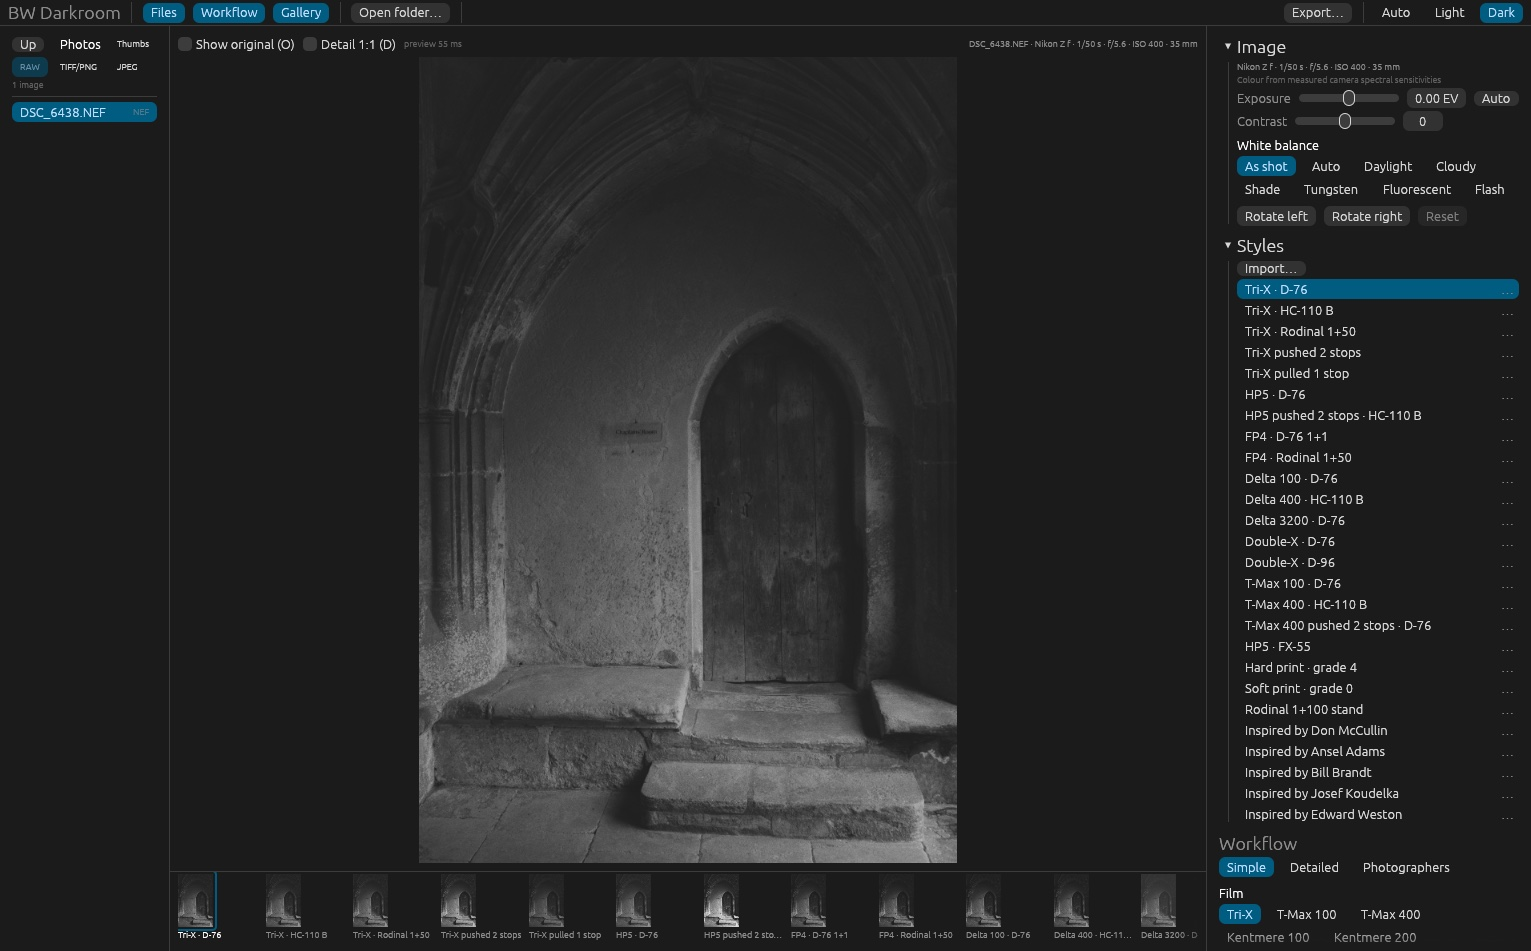
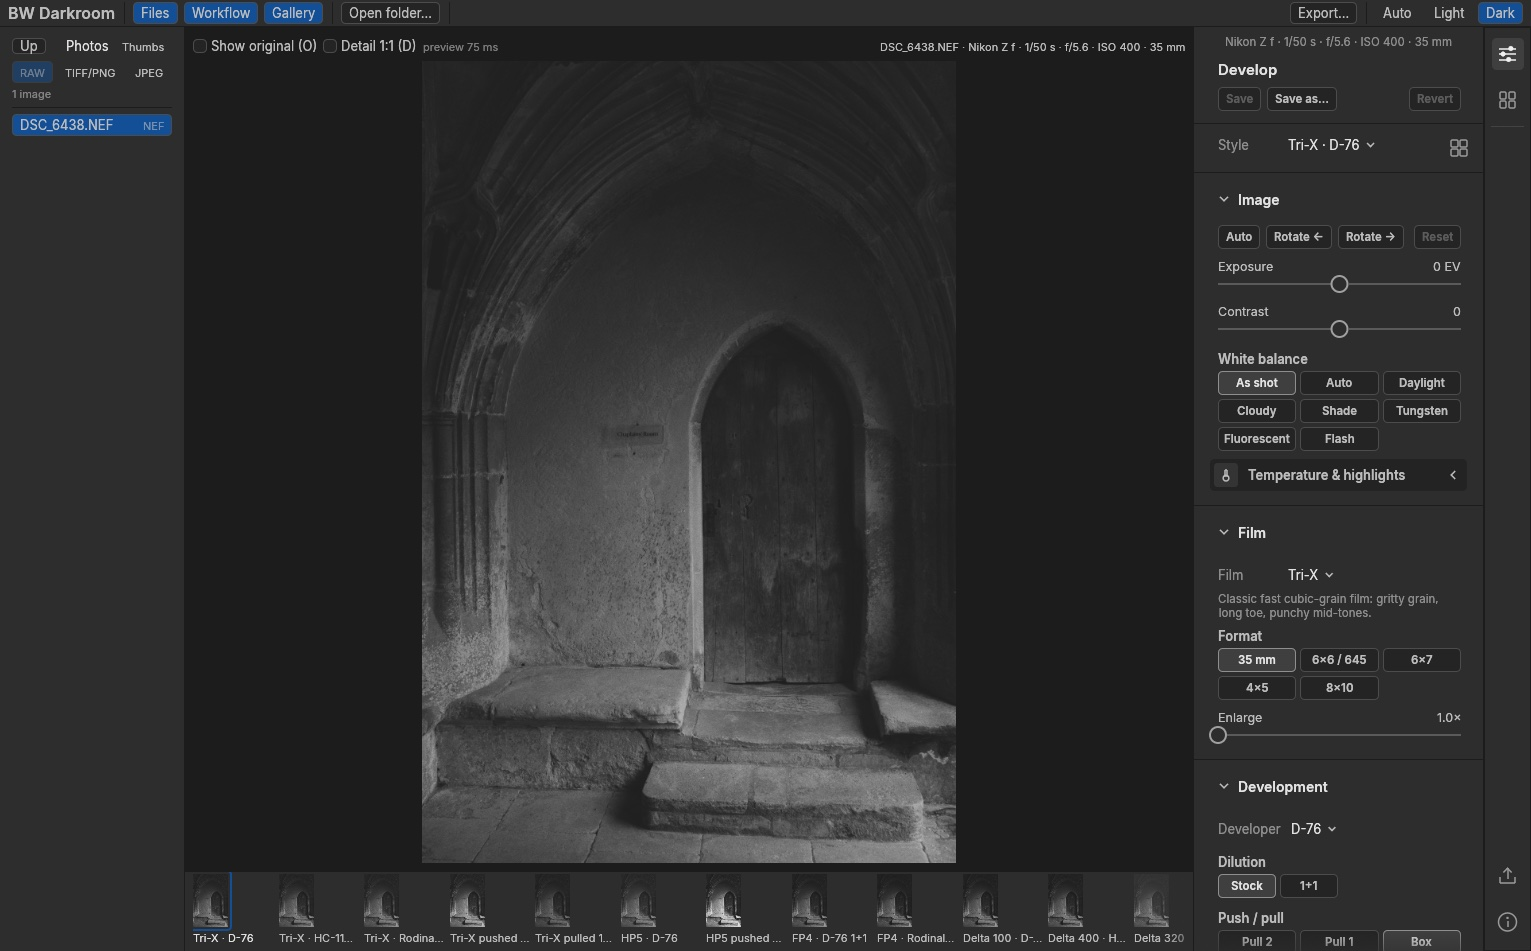
README: screenshot of the 0.7 interface

diff --git a/README.md b/README.md
@@ -1,6 +1,6 @@
 # BW Darkroom
 
-![BW Darkroom: a raw photo of an arched stone doorway rendered as Tri-X developed in D-76, with the file browser, style list, workflow controls and style gallery](docs/images/screenshot.jpg)
+![BW Darkroom: a raw photo of an arched stone doorway rendered as Tri-X developed in D-76, with the file browser, the Develop panel and its accordion sections, the tool strip and the style gallery](docs/images/screenshot.jpg)
 
 A black-and-white photographic emulation engine in Rust, with a command-line tool and a
 desktop app. Film, developer and processing are modelled as separate components that

diff --git a/CHANGELOG.md b/CHANGELOG.md
@@ -5,6 +5,9 @@ All notable changes to this project are recorded here. The format follows
 
 ## [Unreleased]
 
+### Changed
+- The README screenshot shows the 0.7 interface.
+
 ## [0.7.1] - 2026-10-23
 
 ### Added
